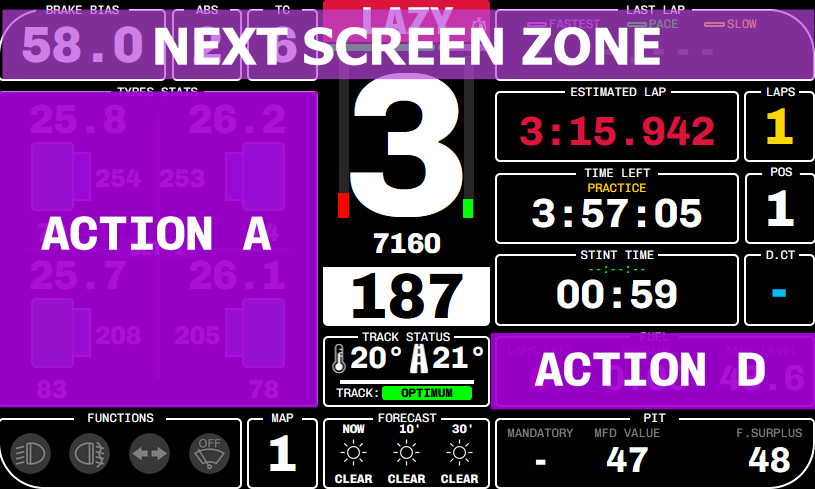
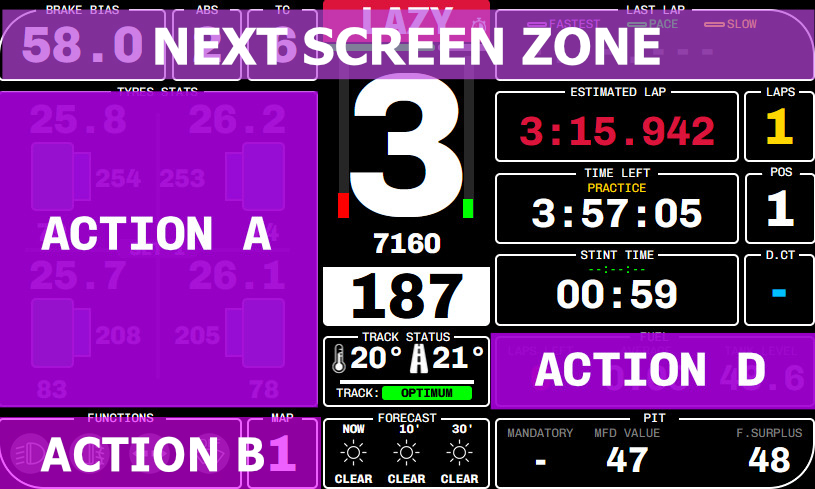
v0.8.0

Changed region(s): [[0.0, 0.8282, 0.3988, 1.0]]

diff --git a/doc/triggers.md b/doc/triggers.md
@@ -12,7 +12,7 @@ In SimHub, navigate to DashStudio -> Controls and assign triggers to the A and D
 If you are using a DDU, please set up those controls in your DDU interface: Devices -> Control (on your selected device).
 
 - **Action A:** Controls the MFD display, allowing you to scroll between different screens such as Tyres, Map, Damages, and others that will be developed in the coming days.
-
+- **Action B:** Scrolls through Functions screen.
 - **Action D:** Scrolls through Fuel values.
 
 ![Maim](/src/images/docs/triggers/action_ad.jpg)
